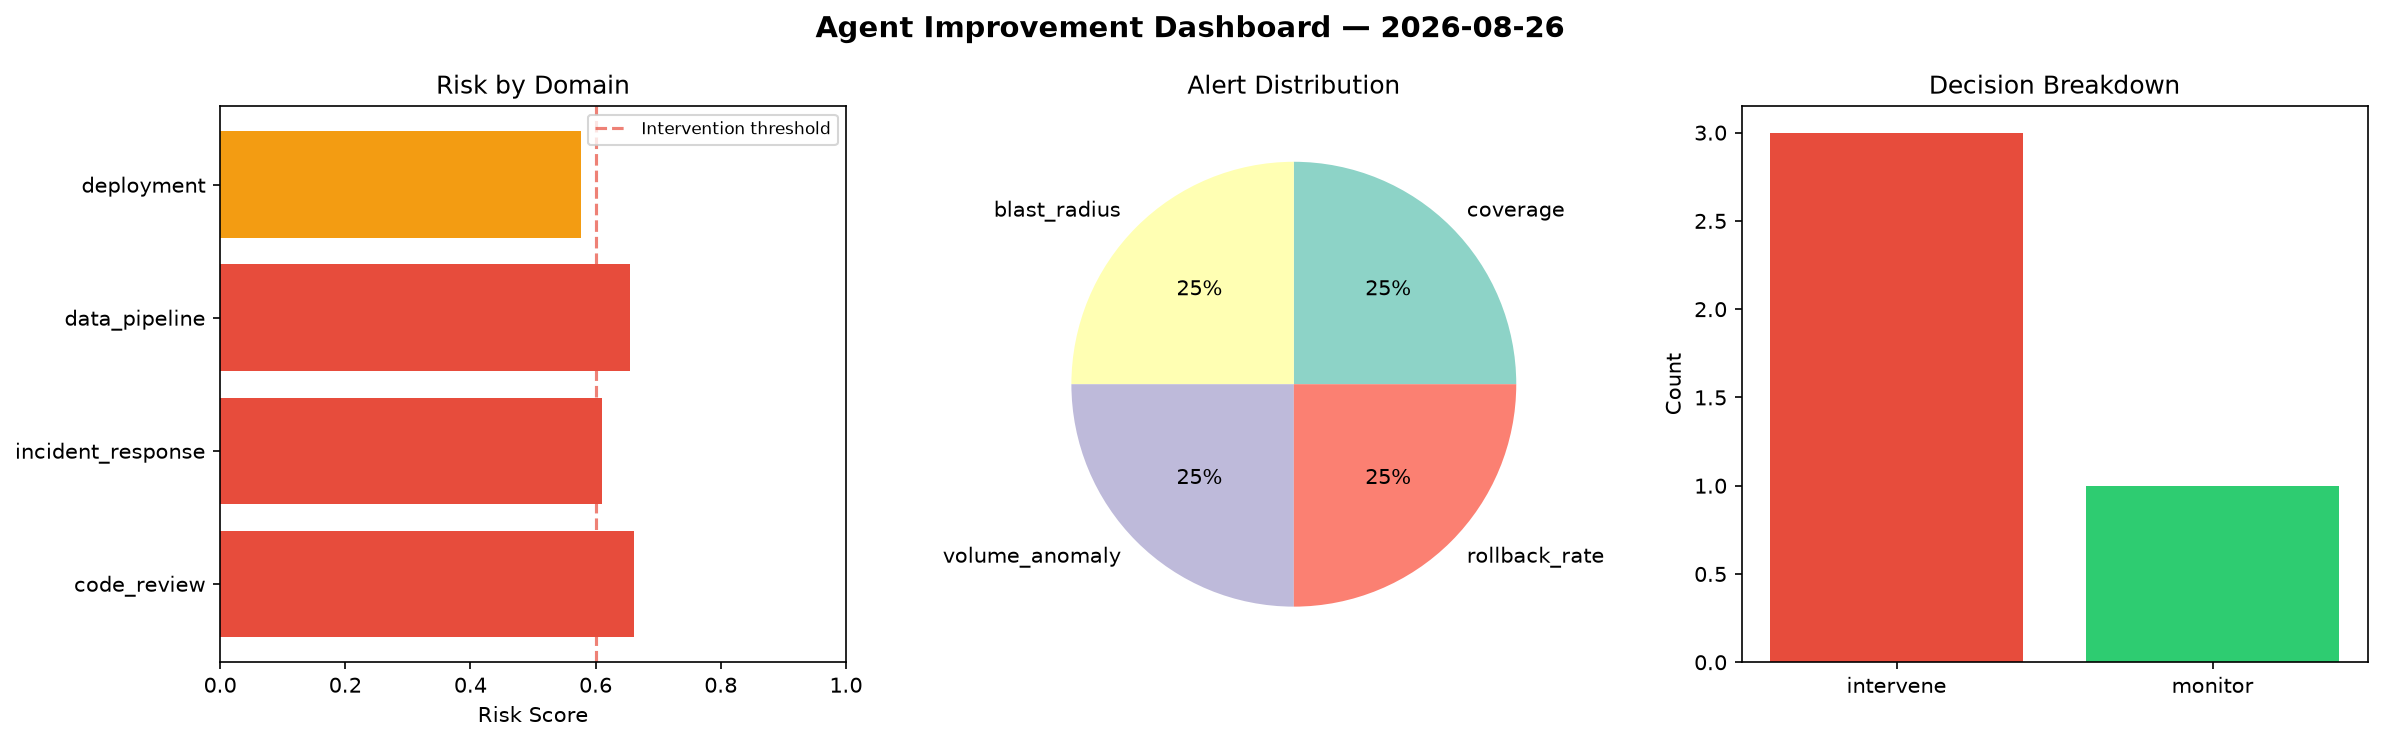
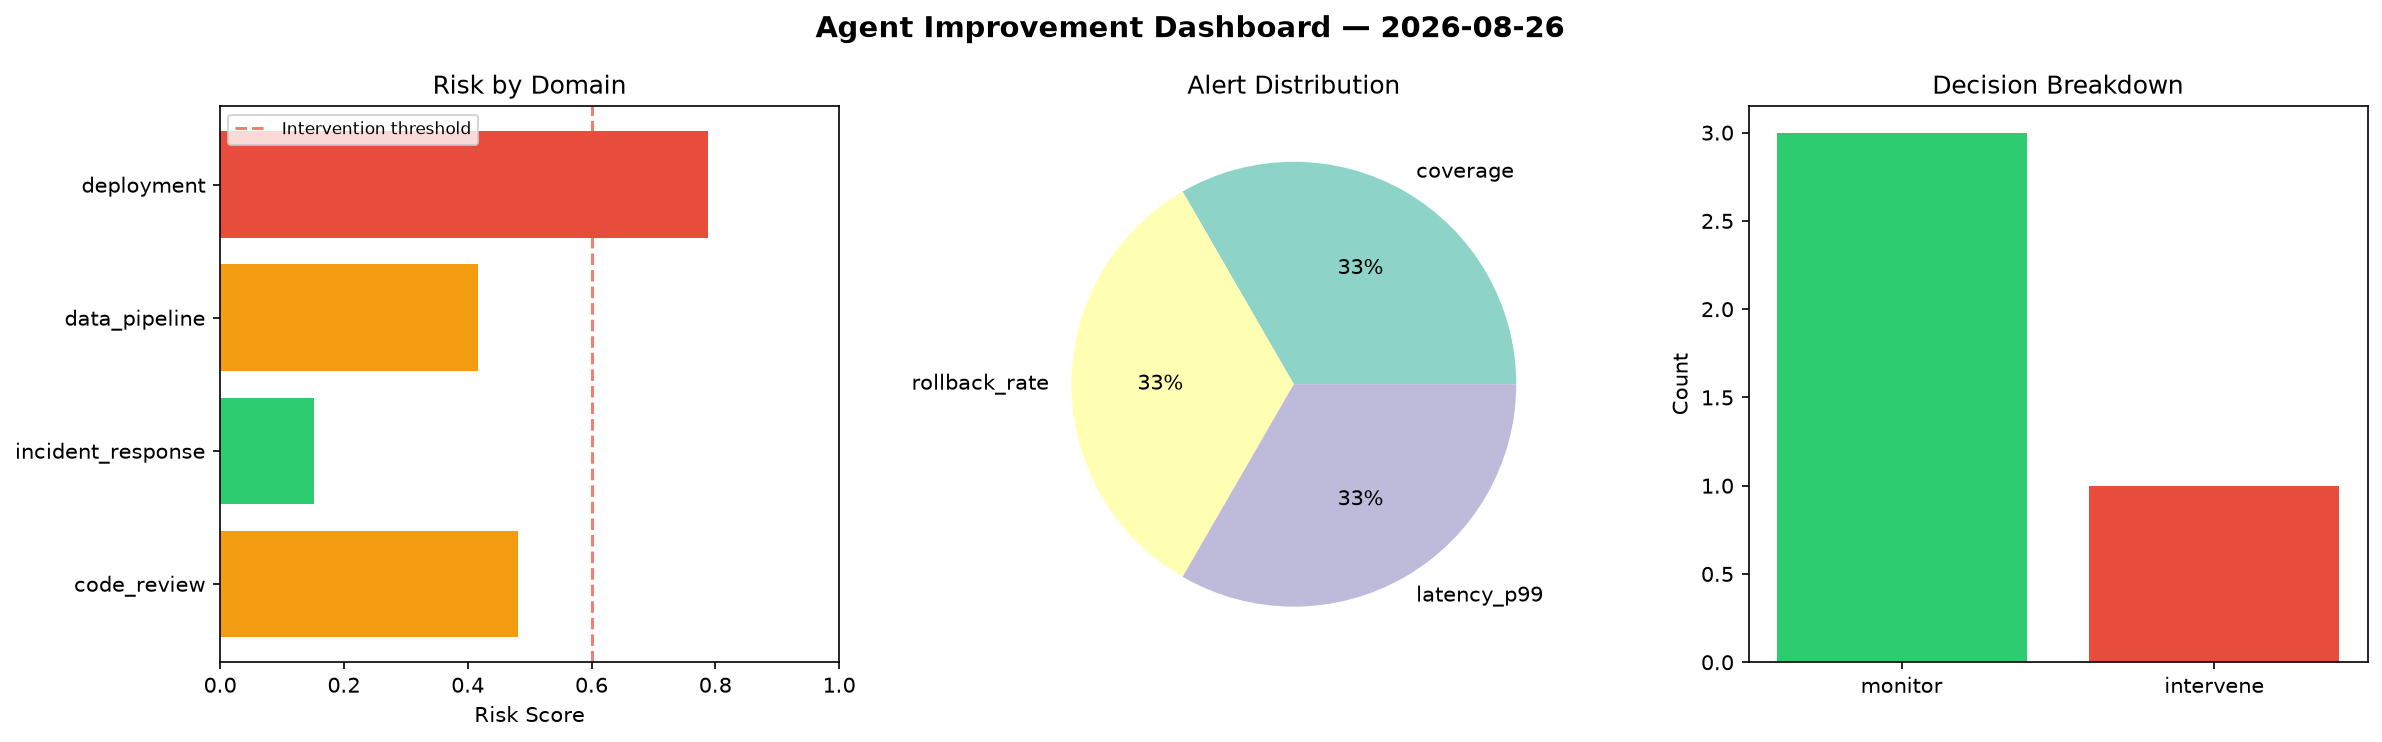
agent-improvement: daily cycle 2026-08-26T23:30

diff --git a/logs/2026-08-26.md b/logs/2026-08-26.md
@@ -1,6 +1,6 @@
 # Agent Improvement Report — 2026-08-26
 
-**Cycle ID:** `0edc028a` | **Avg Risk:** 0.6256 | **Interventions:** 3/4
+**Cycle ID:** `96d85e12` | **Avg Risk:** 0.4595 | **Interventions:** 1/4
 
 ![Dashboard](2026-08-26_dashboard.png)
 
@@ -10,18 +10,18 @@
 
 | Domain | Risk Score | Decision | Alerts |
 |--------|-----------|----------|--------|
-| code_review | 0.6612 | intervene | coverage |
-| incident_response | 0.6098 | intervene | blast_radius |
-| data_pipeline | 0.6554 | intervene | volume_anomaly |
-| deployment | 0.576 | monitor | rollback_rate |
+| code_review | 0.4813 | monitor | coverage |
+| incident_response | 0.1512 | monitor | none |
+| data_pipeline | 0.4171 | monitor | none |
+| deployment | 0.7884 | intervene | rollback_rate, latency_p99 |
 
 ## Delta vs Yesterday
 
 | Domain | Today | Yesterday | Change |
 |--------|-------|-----------|--------|
-| code_review | 0.6612 | 0.1962 | 📈 237.0% |
-| incident_response | 0.6098 | 0.6362 | 📉 -4.1% |
-| data_pipeline | 0.6554 | 0.6225 | 📈 5.3% |
-| deployment | 0.576 | 0.5589 | 📈 3.1% |
+| code_review | 0.4813 | 0.1962 | 📈 145.3% |
+| incident_response | 0.1512 | 0.6362 | 📉 -76.2% |
+| data_pipeline | 0.4171 | 0.6225 | 📉 -33.0% |
+| deployment | 0.7884 | 0.5589 | 📈 41.1% |
 
-**Refinement:** `{'adjustment': 'maintain', 'trend': 'improving', 'window': 4}`
+**Refinement:** `{'adjustment': 'tighten_thresholds', 'trend': 'degrading', 'window': 4}`
